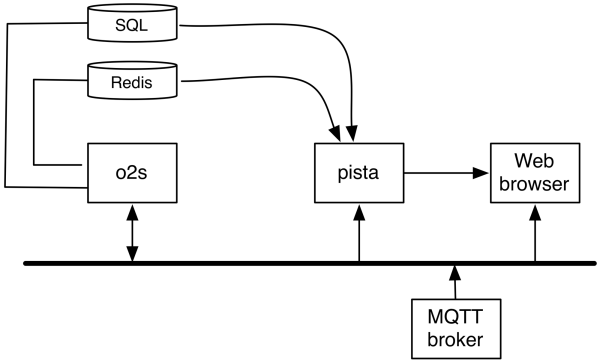
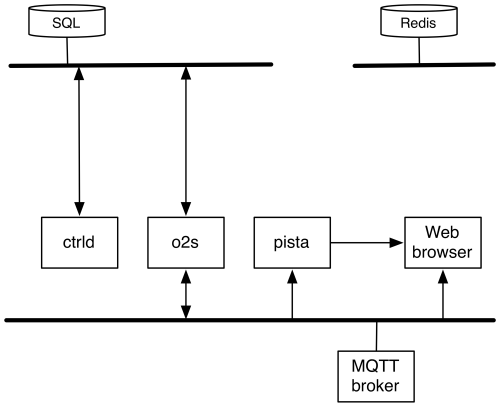
consolidating

Changed region(s): [[0.0, 0.0, 1.0, 1.0], [0.69, 0.0, 0.99, 0.1828], [0.54, 0.0914, 0.57, 0.1219]]

diff --git a/README.md b/README.md
@@ -1,5 +1,134 @@
+## OwnTracks back-end
 
+The OwnTracks back-end are a set of components intended to work with the [owntracks.org](http://owntracks.org) apps for Android and iOS as well as the Greenwich, OwnTracks edition.
+
+This back-end superceeds what has so-far been known as `m2s`, but has, in all honesty, a focus on the OwnTracks Greenwich devices, so there are features here which will not be useful for app users. If you are an app user and wish to experiment with the OwnTracks back-end, read [Migration](#migration) before continuing.
+
+The backend consists of a number of utilities:
+
+* [o2s](#o2s)
+* [pista](#pista)
+* [ctrld](#ctrld)
 
 
 ![o2s and Pista architecture](pista/static/images/pista/o2s-pista-architecture.png)
 
+These components work hand-in-hand and consist of a number of _features_ which can be
+enabled/disabled through a configuration file. Although we have attempted to test different
+combinations of features, be warned that not all combinations are extensively tested. Our
+environment uses all features, and this documentation discusses these.
+
+Keep a copy of the extensively documented configuration file `o2s.conf.sample` handy for reference.
+
+### `o2s`
+
+_o2s_ (OwnTracks to Storage) is responsible for subscribing to MQTT for the OwnTracks topics and comitting these to storage (i.e. to a database). In particular, _o2s_ also provides support for
+
+* Republishing formatted debugging strings to the `_look` topic
+* Republishing whole "objects" to the `_map/` topic
+* Recording statistics in Redis
+* Handling geo-fences from waypoints (enter/leave)
+
+Upon startup, _o2s_ subscribes to the configured MQTT broker awaiting publishes
+from OwnTracks devices. Location publishes are comitted to storage as are Waypoint
+publishes.
+
+#### `_map/`
+
+Other publishes from devices (e.g. `startup/`, `gpio/`, `voltage/` are gathered
+together to form an "object" which is published to `_map/` when it changes. This object
+is used by _pista_ to display information in its individual pages. An object published
+thusly might look like this:
+
+```json
+{
+  "vel": 0,
+  "tstamp": "2014-11-01T09:48:53Z",
+  "tst": 1414835333,
+  "topic": "owntracks/gw/BB",
+  "tid": "BB",
+  "status": -1,
+  "lon": -5.184415,
+  "_type": "location",
+  "addr": "A-397, 29400 Ronda, Málaga, Spain",
+  "alt": 569,
+  "cc": "ES",
+  "cog": 0,
+  "compass": "N",
+  "dstamp": "01/10:48:53",
+  "lat": 36.766928
+}
+```
+
+Note for example the `tstamp`, `status`, `addr`, and `compass` elements which are not part
+of the [OwnTracks JSON](https://github.com/owntracks/owntracks/wiki/JSON) format for Location
+publishes. These elements are assembled by _o2s_ into this object.
+
+#### Waypoints
+
+_map/9e33dafec92ce71a34f3cf10b8d747b7834bda7e {"lat": 51.1694, "radius": 300, "_type": "fence", "lon": 4.38942, "waypoint": "LOADays"}
+
+#### `_alerts/`
+
+```json
+{
+  "wptopic": "owntracks/gw/BB",
+  "wpname": "our favorite restaurant",
+  "wplon": xxx.xxx,
+  "wplat": yyy.yyy,
+  "vel": 0,
+  "tstamp": "2014-10-30T18:06:49Z",
+  "event": "leaves",
+  "dstamp": "30/19:06:49",
+  "compass": "N",
+  "cog": 0,
+  "cc": "DE",
+  "alt": 186,
+  "addr": "Demo Way 27",
+  "_type": "alert",
+  "km": "56.08",
+  "lat": xxx.xxx,
+  "lon": yyy.yyy,
+  "meters": 128,
+  "status": 1,
+  "tid": "BB",
+  "trigger": 0,
+  "tst": 1414692409
+}
+```
+
+
+### `pista`
+
+
+### `ctrld`
+
+_ctrld_ (CTRL Daemon) is a RESTful API for
+[CTRL](https://github.com/owntracks/OwnTracksCTRL), a specialized utility which
+is probably not something you readily require, but it is, nevertheless, part of
+the back-end.
+
+It basically provides authentication services and track dumps for this app, and is able to
+supply an X.509 CA certificate for MQTT connections.
+
+### Prerequisites
+
+In order to run the OwnTracks back-end you will need:
+
+* An MQTT broker with Websockets capabilities. This could be, say, Mosquitto (version 1.4 or higher) or HiveMQ.
+* A database supported by `o2s`; this is currently one of SQLite, PostgreSQL or MySQL, whereby we test only with the latter.
+* Optionally (and highly recommended), access to a Redis key/value store.
+* A Linux host
+* Python 2.7.x
+* An optional HTTP server (Apache or nginx)
+* Quite a bit of patience
+
+
+### Installation
+
+
+#### uWSGI
+
+### Testing
+
+### Migration from `m2s`
